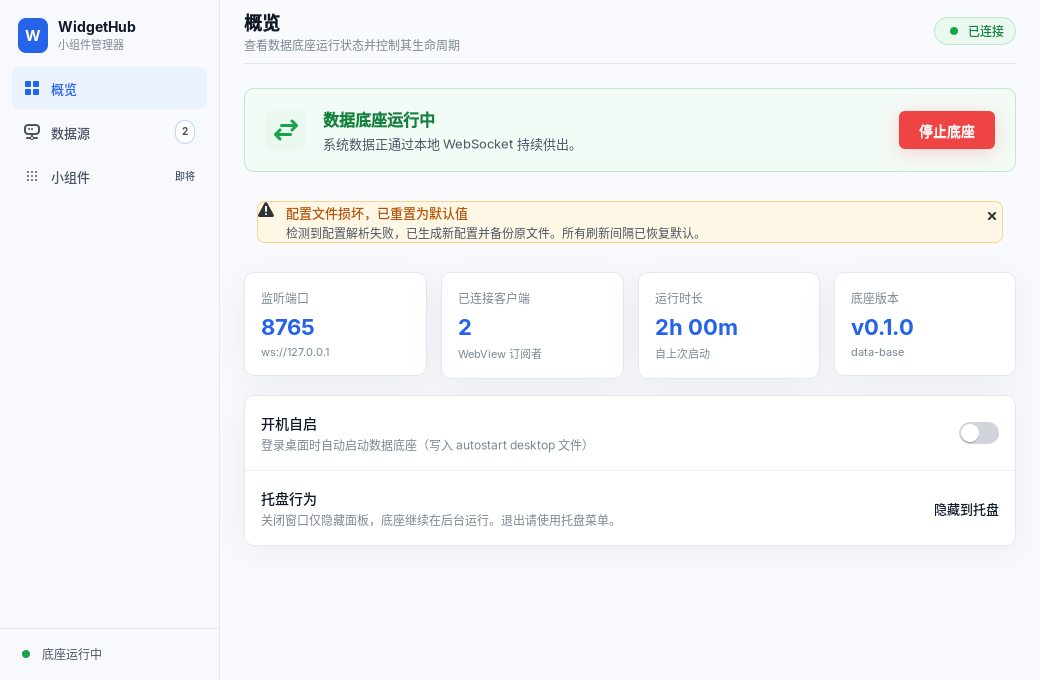
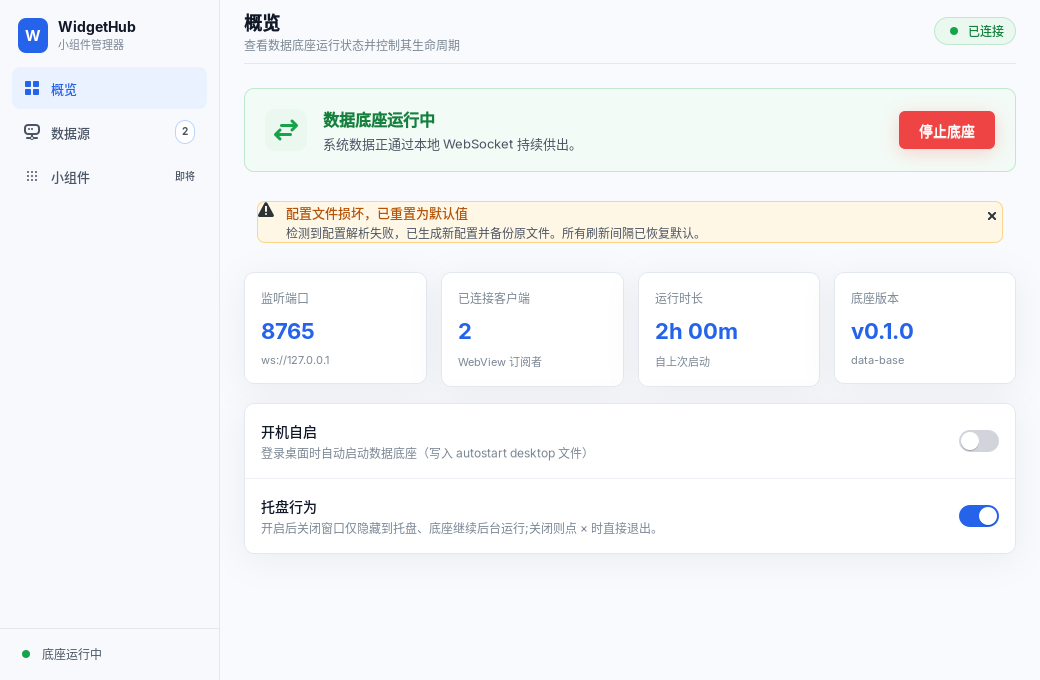
feat(manager): widgets 概览页托盘行为开关 + 冒烟测试 + 设计稿更新
并行进行的 widgets 工作:overview 页补「托盘行为」开关联动、补冒烟测试,
更新设计规范与概览截图。

diff --git a/tests/test_manager_smoke.py b/tests/test_manager_smoke.py
@@ -98,6 +98,42 @@ def test_overview_autostart_sync_no_feedback_loop():
     assert calls == []                        # 程序化同步未回环触发 on_autostart
 
 
+def test_overview_tray_close_toggle_invokes_callback():
+    # 「托盘行为」是真开关:用户切换 → 回调(app 据此落盘 close_to_tray 偏好)。
+    from manager.widgets.draw import PillSwitch
+    from manager.pages.overview import OverviewPage
+    calls = []
+    ov = OverviewPage(on_start=lambda: None, on_stop=lambda: None,
+                      on_autostart=lambda _e: None, on_tray_close=lambda v: calls.append(v))
+    assert isinstance(ov._tray_close, PillSwitch)          # 是开关,不再是静态文字
+    ov._tray_close.set_active(not ov._tray_close.get_active())
+    assert calls and isinstance(calls[-1], bool)           # 用户切换触发了回调
+
+
+def test_overview_tray_close_sync_no_feedback_loop():
+    # 关窗对话框「记住我的选择」回写开关时,程序化同步不得回环触发 on_tray_close。
+    from manager.pages.overview import OverviewPage
+    calls = []
+    ov = OverviewPage(on_start=lambda: None, on_stop=lambda: None,
+                      on_autostart=lambda _e: None, on_tray_close=lambda v: calls.append(v))
+    ov.set_tray_close_active(False)
+    assert ov._tray_close.get_active() is False
+    ov.set_tray_close_active(True)
+    assert ov._tray_close.get_active() is True
+    assert calls == []                        # 程序化同步未回环
+
+
+def test_overview_tray_close_disabled_without_tray():
+    # 无托盘(降级)时,关窗只能退出,托盘开关应置灰。
+    from manager.pages.overview import OverviewPage
+    ov = OverviewPage(on_start=lambda: None, on_stop=lambda: None,
+                      on_autostart=lambda _e: None, on_tray_close=lambda _v: None)
+    ov.set_tray_available(False)
+    assert ov._tray_close._sensitive is False
+    ov.set_tray_available(True)
+    assert ov._tray_close._sensitive is True
+
+
 def _classes(widget):
     return set(widget.get_style_context().list_classes())
 

diff --git a/manager/pages/overview.py b/manager/pages/overview.py
@@ -28,17 +28,18 @@ def _fmt_uptime(t):
 
 
 class OverviewPage(Gtk.Box):
-    def __init__(self, on_start, on_stop, on_autostart):
+    def __init__(self, on_start, on_stop, on_autostart, on_tray_close=None):
         super().__init__(orientation=Gtk.Orientation.VERTICAL, spacing=16)
         self.set_margin_top(24); self.set_margin_bottom(24)
         self.set_margin_start(24); self.set_margin_end(24)
         self._on_start, self._on_stop = on_start, on_stop
+
         self._state = "disconnected"
 
         self._build_banner()
         self._build_alert()
         self._build_metrics()
-        self._build_settings(on_autostart)
+        self._build_settings(on_autostart, on_tray_close)
         self._refresh_banner()
 
     # ---- 状态横幅 ----
@@ -161,7 +162,7 @@ class OverviewPage(Gtk.Box):
         self.pack_start(grid, False, True, 0)
 
     # ---- 设置卡 ----
-    def _build_settings(self, on_autostart):
+    def _build_settings(self, on_autostart, on_tray_close=None):
         card = Gtk.Box(orientation=Gtk.Orientation.VERTICAL, spacing=0)
         card.get_style_context().add_class("mw-card")
 
@@ -190,9 +191,16 @@ class OverviewPage(Gtk.Box):
         self._autostart_handler = self._autostart.connect("toggled", lambda _s, v: on_autostart(v))
         row("开机自启", "登录桌面时自动启动数据底座（写入 autostart desktop 文件）",
             self._autostart, divider=True)
-        tray_lbl = Gtk.Label(label="隐藏到托盘"); tray_lbl.get_style_context().add_class("mw-h-13-600")
-        row("托盘行为", "关闭窗口仅隐藏面板，底座继续在后台运行。退出请使用托盘菜单。",
-            tray_lbl, divider=False)
+
+        # 托盘行为:接 close_to_tray 偏好。开=关窗静默隐藏到托盘;关=关窗时直接退出。
+        # 偏好未设过(None)默认开(与关窗对话框的推荐项一致)。无托盘时由 set_tray_available 置灰。
+        from manager.settings import load_close_to_tray
+        self._on_tray_close = on_tray_close
+        self._tray_close = PillSwitch(active=load_close_to_tray() is not False)
+        self._tray_close_handler = self._tray_close.connect(
+            "toggled", lambda _s, v: self._on_tray_close(v) if self._on_tray_close else None)
+        row("托盘行为", "开启后关闭窗口仅隐藏到托盘、底座继续后台运行;关闭则点 × 时直接退出。",
+            self._tray_close, divider=False)
         self.pack_start(card, False, False, 0)
 
     # ---- 对外 API ----
@@ -200,6 +208,16 @@ class OverviewPage(Gtk.Box):
         self._autostart.handler_block(self._autostart_handler)
         self._autostart.set_active(bool(enabled))
         self._autostart.handler_unblock(self._autostart_handler)
+
+    def set_tray_close_active(self, enabled):
+        # 与关窗对话框「记住我的选择」联动:程序化同步,阻塞信号防回环
+        self._tray_close.handler_block(self._tray_close_handler)
+        self._tray_close.set_active(bool(enabled))
+        self._tray_close.handler_unblock(self._tray_close_handler)
+
+    def set_tray_available(self, available):
+        # 无托盘(缺 AyatanaAppIndicator3 降级)时,关窗只能退出,托盘开关无意义 → 置灰
+        self._tray_close.set_switch_sensitive(bool(available))
 
     def set_connection(self, state):
         self._state = state if state in _BANNER else (

diff --git a/docs/design-specs/2026-06-23-widget-manager-ui.md b/docs/design-specs/2026-06-23-widget-manager-ui.md
@@ -139,7 +139,7 @@
   - 底座版本 `v0.1.0` / `data-base`
 - **设置卡**：两行，行间分隔。
   - 开机自启：标题 14/600 + 描述 12 muted + 右侧 iOS 风开关（`trackStyle/knobStyle`）。
-  - 托盘行为：标题 + 描述「关闭窗口仅隐藏面板…」+ 右侧「隐藏到托盘」标签（非开关，纯文案；可按现有 `close_to_tray` 偏好做成可点）。
+  - 托盘行为：标题 + 描述 + 右侧 iOS 风开关。**[增强，超出原型]** 原型此处是纯文案「隐藏到托盘」;经用户确认改为真开关,接 `close_to_tray` 偏好(开=关窗静默隐藏托盘 / 关=关窗直接退出),切换即 `save_close_to_tray` 落盘,与关窗对话框「记住我的选择」双向同步,无托盘时置灰。见 §12 增强轮次 1。
 
 ### 数据源页
 - **断连横幅**（`disconnected` 时）：danger 配色，「未连接到数据底座 / 控件已禁用…」+「启动底座」按钮。
@@ -247,6 +247,16 @@
 每片后跑 `pytest` 并截图（`docs/screenshots/`），漂移回写本文件 §12。
 
 ## 12. 漂移记录（编码阶段追加）
+
+### 功能增强轮次 1（2026-06-23，用户确认「托盘行为做成真开关」）
+- **区域**：概览页设置卡「托盘行为」行(§4)。**超出原型**(原型是纯文案 `<span>隐藏到托盘</span>`)。
+- **变更**：右侧静态文字 → `PillSwitch`,接后端 `close_to_tray` 偏好。
+  - 初值 = `load_close_to_tray()`(None 默认开,与关窗对话框推荐项一致)。
+  - 切换 → `OverviewPage(on_tray_close=…)` → `app._on_overview_tray_close` → `save_close_to_tray()` 落盘。
+  - 与关窗对话框「记住我的选择」**双向同步**(`set_tray_close_active`,阻塞信号防回环)。
+  - 无托盘(降级)时 `set_tray_available(False)` 置灰(关窗只能退出,开关无意义)。
+- **文件**：`manager/pages/overview.py`(开关+`set_tray_close_active`/`set_tray_available`)、`manager/app.py`(回调+落盘+对话框同步+置灰)。
+- **测试**:`tests/test_manager_smoke.py` 新增 3 例(切换触发回调 / 程序化同步防回环 / 无托盘置灰);`pytest` **120 passed**。
 
 ### 漂移修复轮次 1（2026-06-23，用户实机反馈「中间指标卡没对齐原型」）
 - **区域**：概览页 4 张 metric 卡（§4）。